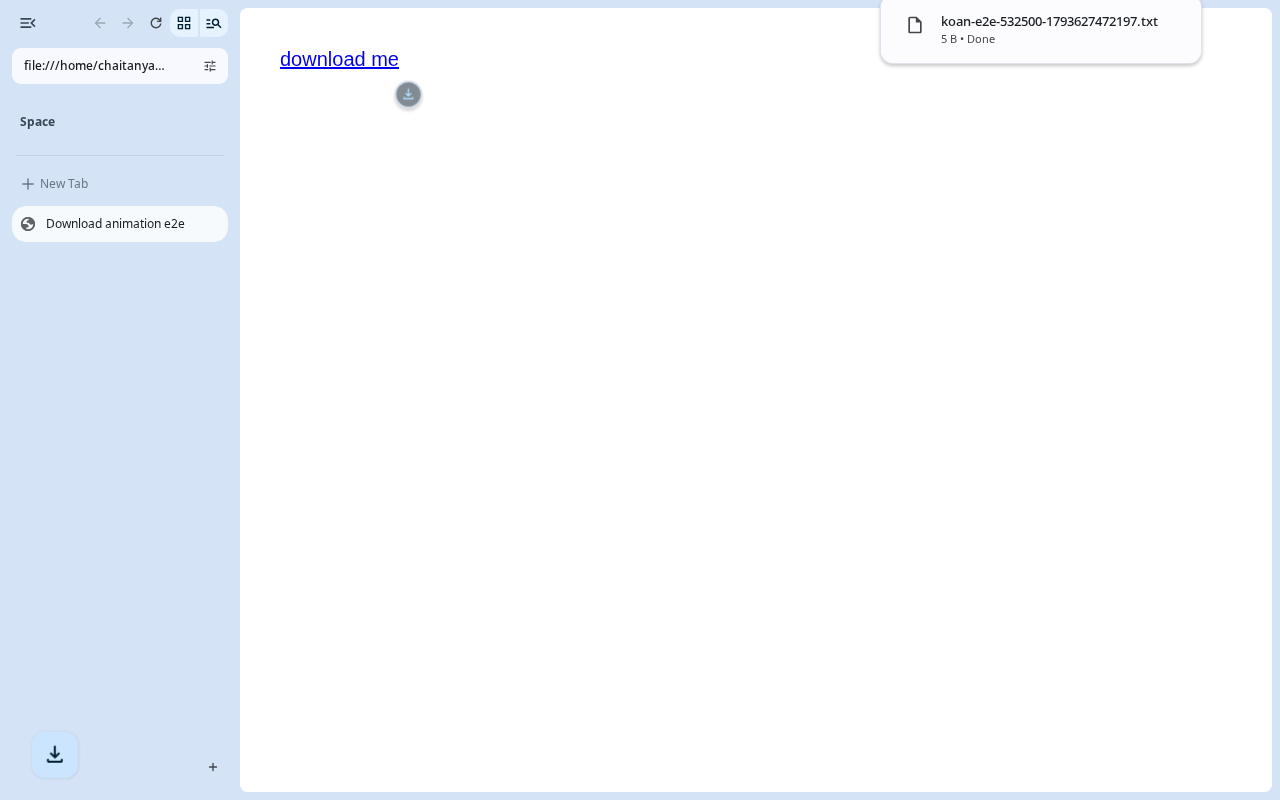
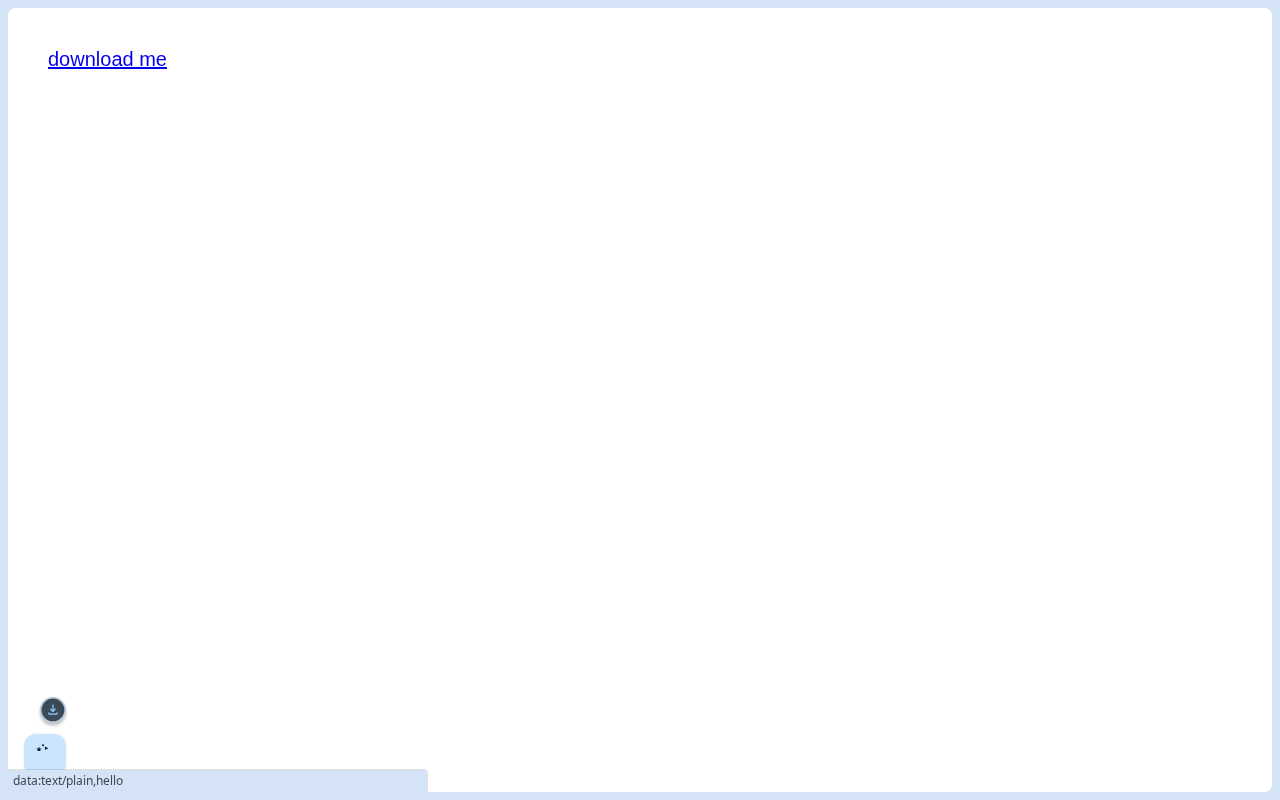
The download animation lands on the Library button, like Zen
With #64's Library button at the bottom of the sidebar, Zen's animation
flies there first (ZenDownloadAnimation.mjs #determineEndPosition: the
Library button, then the downloads button, else the box). The tile now
only shows while compact mode hides the sidebar, and carries the Library
icon like Zen's box. The e2e covers both targets.

diff --git a/src/browser/ui/views/koan_download_animation.cc b/src/browser/ui/views/koan_download_animation.cc
@@ -23,6 +23,7 @@
 #include "koan/browser/koan_features.h"
 #include "koan/browser/koan_prefs.h"
 #include "koan/browser/ui/color/koan_color_id.h"
+#include "koan/browser/ui/vector_icons/vector_icons.h"
 #include "koan/browser/ui/views/koan_browser_view_controller.h"
 #include "koan/browser/ui/views/koan_compact_mode.h"
 #include "koan/browser/ui/views/koan_compact_mode_controller.h"
@@ -53,6 +54,24 @@ namespace {
 // sizes in koan_sidebar_metrics.h.
 constexpr int kArcViewSize = kDownloadArcSize + 2 * kDownloadShadowMargin;
 constexpr int kTileViewSize = kDownloadTileSize + 2 * kDownloadShadowMargin;
+
+// The Library button at the bottom of the sidebar (KoanLibraryButton, #64),
+// if it is on screen: not while compact mode hides the sidebar.
+views::View* FindLibraryButton(views::View* view) {
+  if (!view->GetVisible()) {
+    return nullptr;
+  }
+  if (view->GetClassName() == "KoanLibraryButton") {
+    return view->IsDrawn() && !view->GetVisibleBounds().IsEmpty() ? view
+                                                                  : nullptr;
+  }
+  for (views::View* child : view->children()) {
+    if (views::View* button = FindLibraryButton(child)) {
+      return button;
+    }
+  }
+  return nullptr;
+}
 
 // Scales `size` about its centre after moving it by (dx, dy).
 gfx::Transform MoveAndScale(float dx, float dy, float scale, int size) {
@@ -111,11 +130,12 @@ class KoanDownloadTileView : public views::View {
         {gfx::ShadowValue(gfx::Vector2d(), kDownloadTileShadowBlur,
                           colors->GetColor(kColorKoanDownloadTileShadow))}));
     canvas->DrawRoundRect(tile, kDownloadTileCornerRadius, flags);
-    canvas->DrawImageInt(gfx::CreateVectorIcon(
-                             vector_icons::kDownloadIcon, kDownloadTileIconSize,
-                             colors->GetColor(kColorKoanDownloadTileIcon)),
-                         (width() - kDownloadTileIconSize) / 2,
-                         (height() - kDownloadTileIconSize) / 2);
+    // Zen's box shows the Library icon: the downloads live there.
+    canvas->DrawImageInt(
+        gfx::CreateVectorIcon(kLibraryIcon, kDownloadTileIconSize,
+                              colors->GetColor(kColorKoanDownloadTileIcon)),
+        (width() - kDownloadTileIconSize) / 2,
+        (height() - kDownloadTileIconSize) / 2);
   }
 };
 
@@ -223,16 +243,22 @@ void KoanDownloadAnimation::Play() {
   }
   const gfx::Point start = *last_press_;
 
-  // The downloads button if it shows, else the tile.
+  // Zen's targets, in order: the Library button, the downloads button, else
+  // the tile.
   const KoanBrowserViewController* controller =
       KoanBrowserViewController::From(browser_view_);
-  const bool toolbar_shown = !controller ||
-                             !controller->compact_mode()->hides_toolbar() ||
-                             controller->compact_mode()->is_toolbar_revealed();
-  ToolbarButtonProvider* provider = browser_view_->toolbar_button_provider();
-  views::View* button = provider ? provider->GetDownloadButton() : nullptr;
+  views::View* sidebar = browser_view_->tab_strip_view();
+  views::View* button = sidebar ? FindLibraryButton(sidebar) : nullptr;
+  if (!button) {
+    const bool toolbar_shown =
+        !controller || !controller->compact_mode()->hides_toolbar() ||
+        controller->compact_mode()->is_toolbar_revealed();
+    ToolbarButtonProvider* provider = browser_view_->toolbar_button_provider();
+    button =
+        provider && toolbar_shown ? provider->GetDownloadButton() : nullptr;
+  }
   gfx::Point end;
-  if (toolbar_shown && button && button->IsDrawn()) {
+  if (button && button->IsDrawn()) {
     end = button->GetLocalBounds().CenterPoint();
     views::View::ConvertPointToTarget(button, browser_view_, &end);
   } else {

diff --git a/src/browser/ui/views/koan_download_animation.h b/src/browser/ui/views/koan_download_animation.h
@@ -28,10 +28,11 @@ namespace koan {
 
 // Zen's download animation (ZenDownloadAnimation.mjs) for one window: when
 // a download starts, a round download icon flies along an arc from where
-// the pointer was last pressed to the downloads button. When that button
-// isn't showing (single toolbar, the default, or a hidden toolbar) a
-// downloads tile slides in at the bottom of the sidebar side instead, and
-// the icon lands on it.
+// the pointer was last pressed to the Library button at the bottom of the
+// sidebar, or, without it, to the downloads button. When neither shows
+// (compact mode hiding the sidebar, with the toolbar hidden too) a tile
+// with the Library icon slides in at the bottom of the sidebar side
+// instead, and the icon lands on it.
 //
 // Both draw in a short-lived child widget over the window that takes no
 // input. The tile is on the sidebar's side (right with tabs on the right).

diff --git a/docs/ZEN_PARITY.md b/docs/ZEN_PARITY.md
@@ -223,7 +223,7 @@ Details, measurements and the reasoning for each default: `PERFORMANCE.md`.
 | Zen | Koan | Notes |
 |---|---|---|
 | Media controller at the bottom of the sidebar | Same | A card per background tab playing media (through a media session): site icon, previous / play-pause / next, mute; on hover title, artist, seekable progress, picture-in-picture and close. Shows after a second of sound, hides while its tab is selected or in picture-in-picture, back half a second after switching away; up to three cards stack. The same media session drives macOS Now Playing and the media keys (Chromium's, on by default on macOS). Zen's microphone / camera sharing card and its scrolling of long titles are missing. |
-| Download animation | Same | The icon flies along Zen's arc (same timing, scale and fade) from the last click to the downloads button, or, when the toolbar is hidden, to a downloads tile at the bottom of the sidebar's side (right with tabs on the right, as in Zen). Koan's tile shows a download arrow instead of Zen's library icon. Chrome's own "download started" arrow is skipped while Zen's plays. |
+| Download animation | Same | The icon flies along Zen's arc (same timing, scale and fade) from the last click to the Library button, else the downloads button, else (compact mode hiding the sidebar) a tile with the Library icon at the bottom of the sidebar's side (right with tabs on the right, as in Zen). Chrome's own "download started" arrow is skipped while Zen's plays. |
 | Drag the window from the top of the page (`zen.view.drag-window-from-content`) | Same | Top 5% of the page, empty space only (Zen's checks: no text, link, form control, media, frame, focusable or ARIA widget, interactive cursor); 4px threshold, 50px when maximized. On macOS the window follows the pointer until the button is released (Chromium's window move loop, as for a tab dragged out); on Linux the window manager moves it. Settings > Look and Feel > Window dragging. The page gets the button released when the drag starts, so a click on the empty space there may still fire. Only the active tab's page drags (in split view, the active panel). |
 | Welcome screen on first run | Different | Same flow and words (title, import, colours, search engine, Essentials, default browser, done) in native views. It works from the keyboard and with screen readers (Tab, arrows, Esc to skip), and leaves the window's buttons (the traffic lights on macOS) usable. Koan paints a gradient instead of Zen's video, shows the Essentials as initials instead of the sites' logos, offers nine colours instead of Zen's gradient picker, and doesn't resize the window. Zen's ad-blocker page is left out: Chrome extensions install from the Chrome Web Store with the user's confirmation, so Koan can't install one for you. |
 | Toasts | Same | One toast per window (`KoanToast`) with Zen's look: "Copied current URL!", "Tabs Closed! Use [Ctrl+Shift+T] to undo.", the split view limit, "Sidebar hidden!", and "New background tab opened!" (compact mode with the sidebar hidden, a page opening a tab in the background; its tab button switches to the tab) and "Workspace has been successfully renamed!" (renaming a Space in its header). Showing a toast replaces the one before (Zen stacks them in place). The pinned-tab toasts belong with #38's pinned tab URL editing. |

diff --git a/docs/USAGE.md b/docs/USAGE.md
@@ -470,9 +470,10 @@ With the system's reduced motion setting on, Koan skips its animations
 (the download animation, the welcome screen's, the media cards' fades).
 
 Starting a download sends a small download icon flying from where you
-clicked to the downloads button, or, while the toolbar is hidden (single
-toolbar, the default), to a downloads tile that slides in at the bottom
-corner on the sidebar's side for a moment.
+clicked to the Library button at the bottom of the sidebar (or the
+downloads button, with the toolbar showing and no Library button). While
+compact mode hides the sidebar, it lands on a tile with the Library icon
+that slides in at the bottom corner on the sidebar's side for a moment.
 
 ![Download animation](screenshots/download-animation.png)
 
